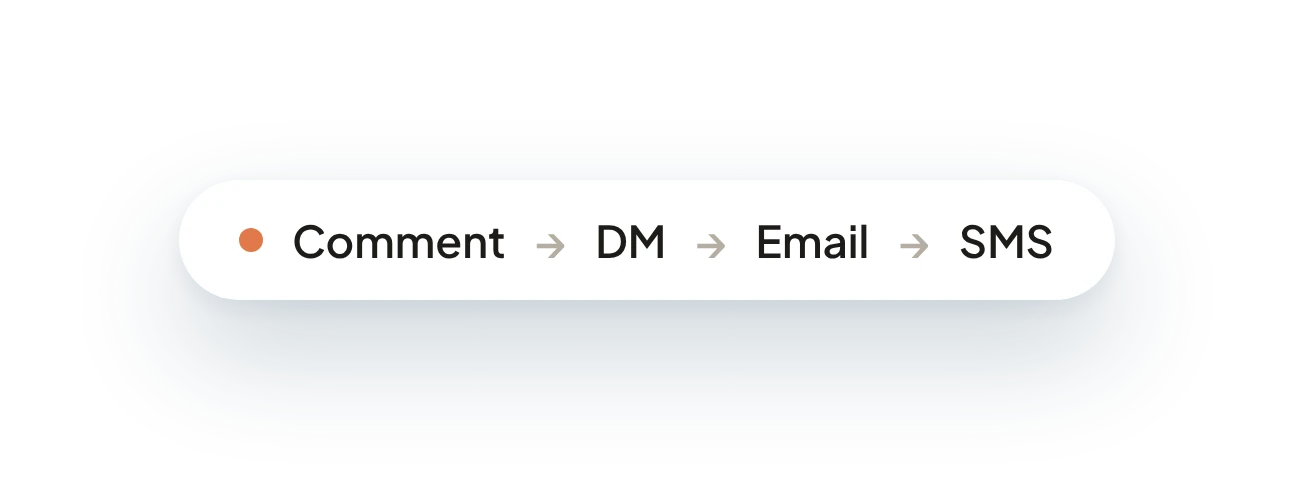
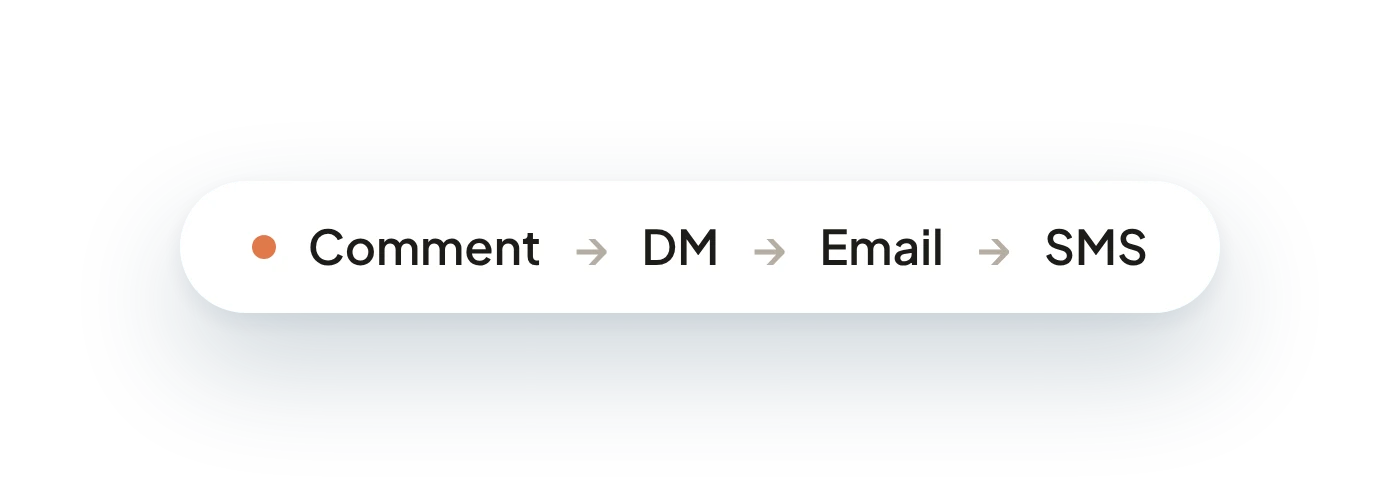
CS3 card: intentional overlaps (DM grows out of the comment, flow bar anchors both)
Claude-Session: https://claude.ai/code/session_013iv52MsjwzSPMq98qC5Wdq

diff --git a/index.html b/index.html
@@ -273,9 +273,9 @@
             <a class="project-card" href="./case-study-03.html" data-page-link>
               <div class="project-visual project-visual--03">
                 <div class="cs3-scene" role="img" aria-label="An Instagram post where a follower comments GUIDE, triggering an automatic DM with a free guide, then a welcome email and SMS">
-                  <img class="cs3-layer cs3-layer--post" src="./assets/cs3-layer-post.webp?v=2" alt="" loading="lazy" decoding="async" style="left:12.778%;top:2.556%;width:42.361%;height:74.167%" />
-                  <img class="cs3-layer cs3-layer--dm" src="./assets/cs3-layer-dm.webp?v=2" alt="" loading="lazy" decoding="async" style="left:44.861%;top:19.556%;width:42.361%;height:52.889%" />
-                  <img class="cs3-layer cs3-layer--flow" src="./assets/cs3-layer-flow.webp?v=2" alt="" loading="lazy" decoding="async" style="left:25.689%;top:62.5%;width:48.622%;height:27.333%" />
+                  <img class="cs3-layer cs3-layer--post" src="./assets/cs3-layer-post.webp?v=3" alt="" loading="lazy" decoding="async" style="left:16.667%;top:0.0%;width:42.361%;height:74.167%" />
+                  <img class="cs3-layer cs3-layer--dm" src="./assets/cs3-layer-dm.webp?v=3" alt="" loading="lazy" decoding="async" style="left:40.972%;top:37.556%;width:42.361%;height:52.889%" />
+                  <img class="cs3-layer cs3-layer--flow" src="./assets/cs3-layer-flow.webp?v=3" alt="" loading="lazy" decoding="async" style="left:25.0%;top:68.444%;width:48.622%;height:27.333%" />
                 </div>
                 <span class="project-index" aria-hidden="true">03</span>
               </div>
